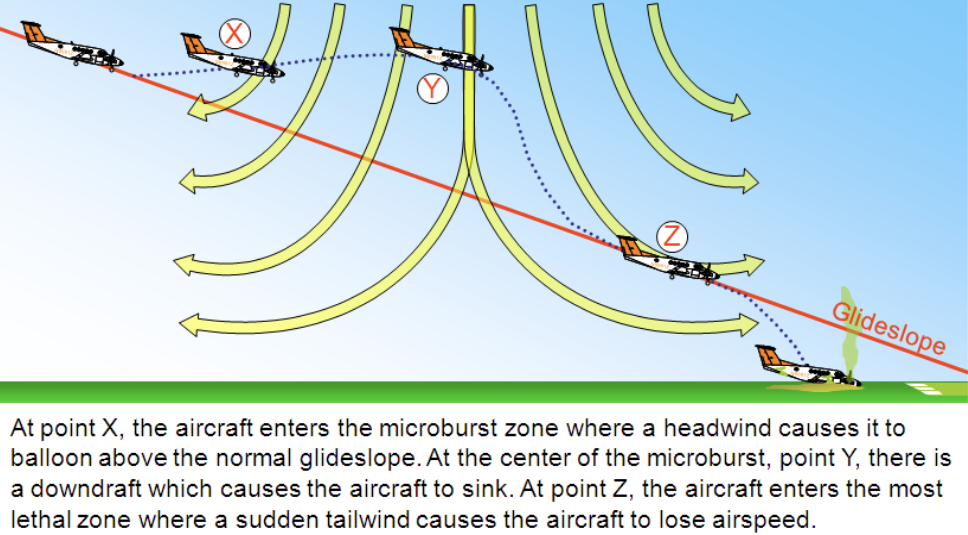
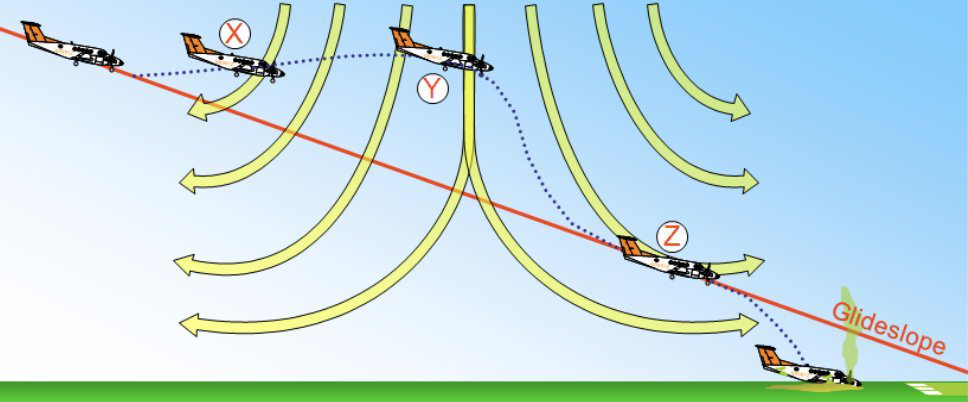
Improve turbulence notes, image

diff --git a/webapp/pages/1-preflight-preparation/B-weather-information.tsx b/webapp/pages/1-preflight-preparation/B-weather-information.tsx
@@ -530,9 +530,8 @@ const WeatherInformation: NextPage<TaskPage.TopLevelProps> = (props) => {
                     design maneuvering speed (<Katex>V_a</Katex>)
                   </Bold>{' '}
                   to lessen airframe stresses. If avoiding severe turbulence becomes impossible, the
-                  FAA advises "riding the waves" and maintaining a level flight attitude. Notably,
-                  this suggestion was contained in AC 00-6a and removed in AC 00-6b -- it's unclear
-                  to me if this remains FAA-endorsed advice.
+                  FAA advises "riding the waves" and maintaining a level flight attitude. See also
+                  the next section on thunderstorms.
                 </>,
               ];
             case '3h': // Thunderstorms/microbursts
@@ -562,7 +561,7 @@ const WeatherInformation: NextPage<TaskPage.TopLevelProps> = (props) => {
                 </>,
                 <>
                   A <Bold>squall line</Bold> is a nonfrontal band of thunderstorms, typically
-                  preceding a cold front in moist, unstable air. These multicell or supercell
+                  preceding a <ColdFront /> in moist, unstable air. These multicell or supercell
                   thunderstorms are extremely hazardous and difficult to navigate around (due to
                   their height and breadth).
                 </>,
@@ -583,20 +582,22 @@ const WeatherInformation: NextPage<TaskPage.TopLevelProps> = (props) => {
                 <>
                   Finally, <Bold>embedded thunderstorms</Bold> are especially dangerous to IFR
                   aircraft because they are, by their nature, difficult to foresee and avoid. If you
-                  do end up inside a thunderstorm, the recommended recover procedure is:
+                  cannot avoid penetrating a thunderstorm, <AIM paragraph={[7, 1, 27, 'c']} />{' '}
+                  provides the recommended recovery procedure:{' '}
                   <DetailList type="bullet">
+                    <>
+                      Keep your eyes inside and on the instruments; looking outside can be
+                      temporarily blinding due to lightning
+                    </>
+                    <>Maintain power settings for a reduced airspeed (maneuvering speed or less)</>
                     <>
                       Try to maintain a constant <Italic>attitude</Italic>; do not try to maintain a
                       constant <Italic>altitude</Italic> as this will only add stress to the
                       aircraft
                     </>
                     <>
-                      The way out is through; making a 180° turn likely prolongs your time in the
-                      storm and places additional stress on the aircraft
-                    </>
-                    <>Maintain power settings for a reduced airspeed (maneuvering speed or less)</>
-                    <>
-                      Keep your eyes inside and on the instruments; looking outside can be blinding
+                      Don't turn back; making a 180° turn likely prolongs your time in the storm and
+                      places additional stress on the aircraft
                     </>
                   </DetailList>
                 </>,
@@ -614,9 +615,16 @@ const WeatherInformation: NextPage<TaskPage.TopLevelProps> = (props) => {
                 </Paragraph>,
                 <>
                   An individual microburst typically does not last more than 15 minutes. The most
-                  intense horizontal winds last only a few minutes.
+                  intense horizontal winds last only a few minutes. See{' '}
+                  <AIM paragraph={[7, 1, 24]} /> for more information.
                 </>,
-                <Image src="microburst" noMargin />,
+                <Image src="microburst" noMargin>
+                  At Point X, the aircraft enters the microburst zone where a headwind causes it to
+                  balloon above the normal glideslope. At the center of the microburst, point Y,
+                  there is a downdraft which causes the aircraft to sink. At point Z, the aircrafte
+                  enters the most lethal zone where a sudden tailwind causes the aircraft to lose
+                  airspeed.
+                </Image>,
               ];
             case '3i': // Icing and freezing level
               return [
